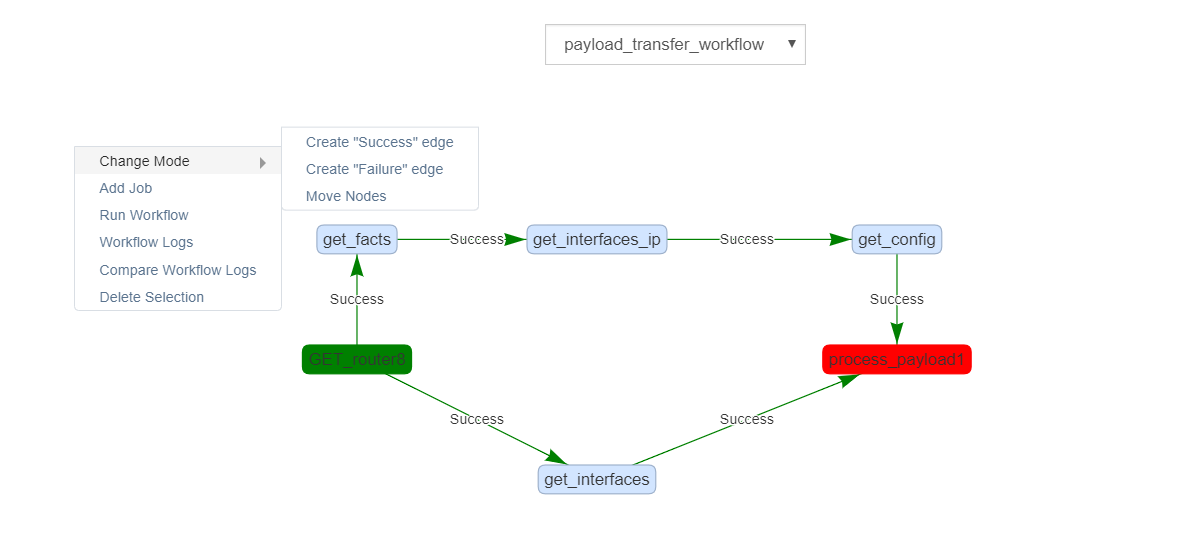
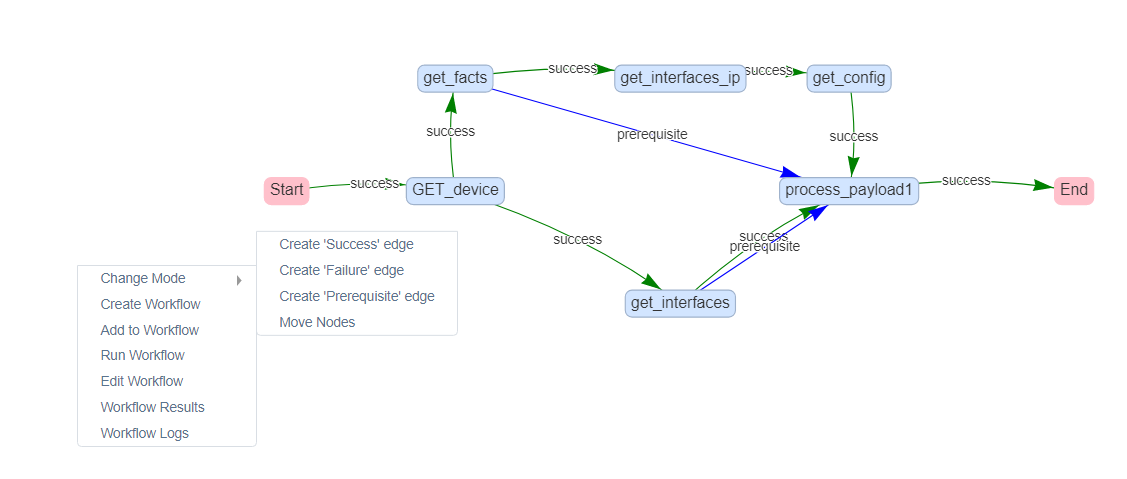
update docs workflow system p1

diff --git a/docs/workflows/workflow_system.rst b/docs/workflows/workflow_system.rst
@@ -10,12 +10,12 @@ Each job in eNMS returns a boolean value:
 
 There are two types of results from a workflow job: ``Success`` edge and ``Failure`` edge. If a job is executed as designed, it returns a success edge, and the workflow continues down the path to the next job as indicated in the graph. However, if a job returns atypical or correctable output it give us the failure edge, which takes a different path if provided in the graph, or stops the workflow when no path is provided in the graph. Each workflow must have a Start job and an End job for eNMS to know which job should be executed first and when to stop running the workflow.
 
-Workflows are created and managed from the :guilabel:`Automation/Workflow Management` page.
+Workflows are created and managed from the :guilabel:`Automation / Workflow Management` and :guilabel:`Automation / Workflow Builder` page.
 
 Workflow Management
 -------------------
 
-In the :guilabel:`Automation/Workflow Management` page, click on the button ``Add a new workflow`` and fill the workflow creation form.
+In the :guilabel:`Automation / Workflow Management` page, click on the button ``Add a new workflow`` and fill the workflow creation form.
 The new workflow will be automatically added to the table of workflows.
 From the same page, workflows can be edited, deleted, and duplicated. They can also be ran, and their result logs examined.
 
@@ -28,17 +28,21 @@ Workflow Builder
 
 The :guilabel:`Automation/Workflow Builder` is the place where services (or other workflows) are organized into workflows.
 It contains:
+
 - A drop-down list containing all existing workflows. This list allows switching between workflows.
 - The workflow itself is displayed as a graph. The  jobs are connected by arrows of type success edge or failure edge.
 - A ``general right-click menu`` can be accessed by clicking on the background or white-space.
 - A ``job-specific right-click menu`` can be accessed by right clicking on a specific job.
 
 The ``general right-click menu`` contains the following entries:
+
 - Change Mode (create edges or move a job in the Workflow Builder)
-- Add Service or Workflow (lets you choose a job to add amongst all existing jobs)
+- Create Workflow
+- Add to Workflow (lets you choose which jobs to add amongst all existing jobs)
 - Run Workflow (starts the workflow)
 - Edit Workflow (same Workflow editor from the Workflow Management page)
-- View and compare the logs of the workflow (``Workflow Logs``, ``Compare Workflow Logs``)
+- Workflow Results
+- Workflow Logs
 - Refresh View
 
 .. image:: /_static/workflows/workflow_system/workflow_background_menu.png
@@ -48,8 +52,8 @@ The ``general right-click menu`` contains the following entries:
 From the ``job-specific right-click menu``, you can:
 - Edit a job (service or workflow)
 - Run a job (service or workflow)
-- View and compare the logs of the job (``Job Logs``, ``Compare Job Logs``)
-- Delete a job (service or workflow)
+- Display the Results
+- Delete a job (remove from the workflow)
 
 .. image:: /_static/workflows/workflow_system/workflow_job_menu.png
    :alt: Workflow management
